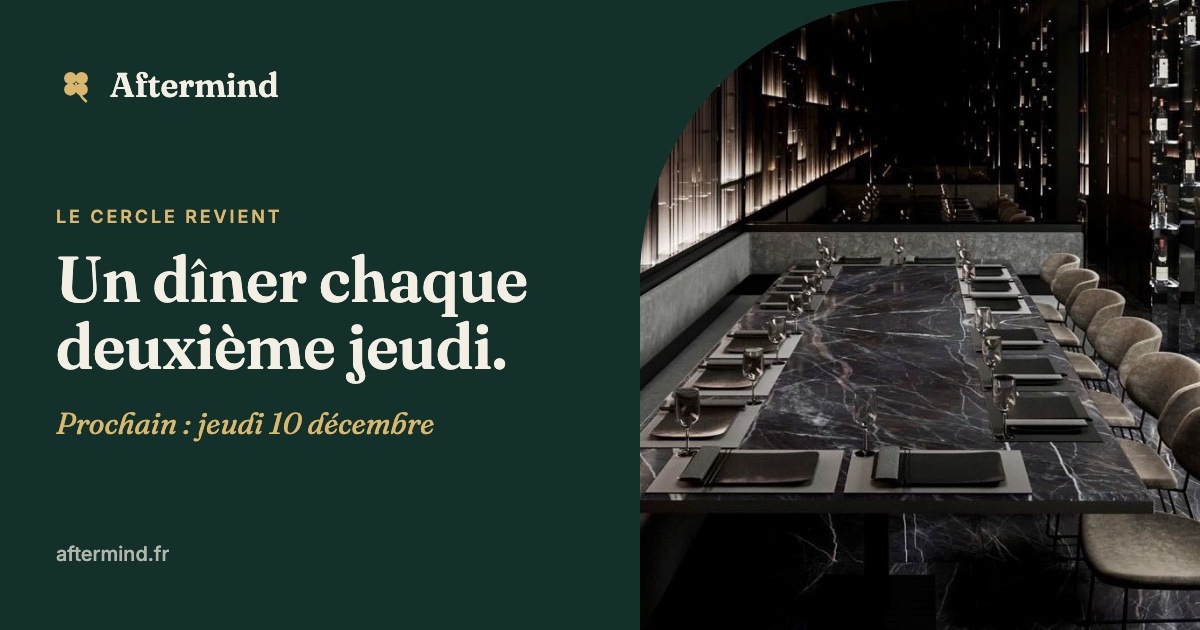
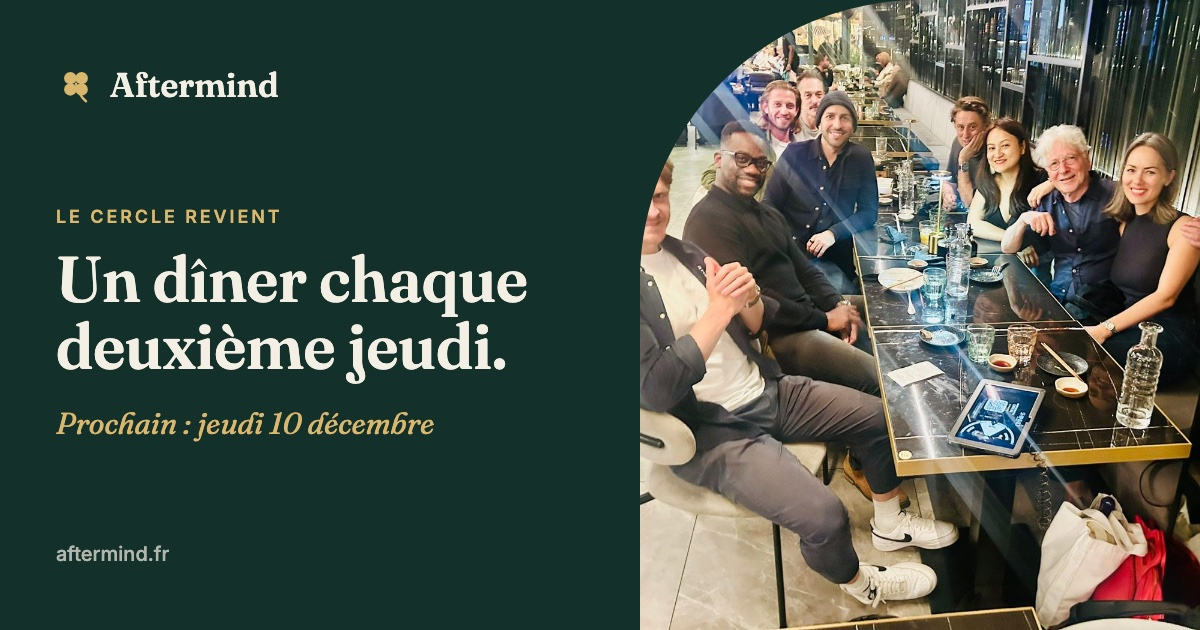
Version 3 : membres publics, citations nommées, 15 livres, photo de groupe en ouverture

diff --git a/index.html b/index.html
@@ -56,8 +56,8 @@
           </a>
         </div>
         <figure class="hero-photo reveal">
-          <img src="img/table-shinko.jpg" alt="Une longue table dressée dans un restaurant aux lumières tamisées" width="1280" height="720">
-          <figcaption>La table est mise.</figcaption>
+          <img src="img/soirees/tablee-septembre-2025.jpg" alt="Une grande tablée de membres de l'Aftermind, septembre 2025" width="1400" height="1050">
+          <figcaption>Un jeudi soir, septembre 2025.</figcaption>
         </figure>
       </div>
     </section>
@@ -126,14 +126,14 @@
         <p class="kicker reveal">Les soirées</p>
         <h2 class="reveal">Ce que ça donne, un jeudi soir.</h2>
         <div class="gallery">
-          <figure class="g-wide reveal" data-prive><img src="img/prive/tablee-septembre-2025.jpg" alt="Une grande tablée de membres, septembre 2025" loading="lazy"></figure>
+          <figure class="g-wide reveal"><img src="img/soirees/apero-septembre-2026.jpg" alt="Un apéro entre membres, septembre 2026" loading="lazy"></figure>
           <figure class="g-tall reveal"><img src="img/assiettes.jpg" alt="Des assiettes et des verres sur une table sombre" loading="lazy"></figure>
-          <figure class="reveal" data-prive><img src="img/prive/soiree-septembre-2025.jpg" alt="Des membres réunis autour d'une table, septembre 2025" loading="lazy"></figure>
-          <figure class="reveal" data-prive><img src="img/prive/diner-octobre-2025.jpg" alt="Un dîner du cercle, octobre 2025" loading="lazy"></figure>
+          <figure class="reveal"><img src="img/soirees/soiree-septembre-2025.jpg" alt="Des membres réunis autour d'une table, septembre 2025" loading="lazy"></figure>
+          <figure class="reveal"><img src="img/soirees/diner-octobre-2025.jpg" alt="Un dîner du cercle, octobre 2025" loading="lazy"></figure>
           <figure class="g-tall reveal"><img src="img/salle-cafe.jpg" alt="Une salle de café parisien aux moulures dorées" loading="lazy"></figure>
-          <figure class="reveal" data-prive><img src="img/prive/premiere-soiree-juin-2025.jpg" alt="La première soirée du cercle, juin 2025" loading="lazy"></figure>
-          <figure class="g-wide reveal" data-prive><img src="img/prive/terrasse-septembre-2026.jpg" alt="Des membres en terrasse, septembre 2026" loading="lazy"></figure>
-          <figure class="reveal"><img src="img/salle-shinko.jpg" alt="Une salle de restaurant aux tables noires" loading="lazy"></figure>
+          <figure class="reveal"><img src="img/soirees/premiere-soiree-juin-2025.jpg" alt="La première soirée du cercle, juin 2025" loading="lazy"></figure>
+          <figure class="g-wide reveal"><img src="img/soirees/terrasse-septembre-2026.jpg" alt="Des membres en terrasse, septembre 2026" loading="lazy"></figure>
+          <figure class="g-tall reveal"><img src="img/soirees/diner-juillet-2025.jpg" alt="Le premier dîner, juillet 2025" loading="lazy"></figure>
         </div>
       </div>
     </section>
@@ -200,13 +200,13 @@ Délai : …</pre>
       <div class="wrap">
         <p class="kicker reveal">Dans le groupe, le lendemain</p>
         <div class="quotes">
-          <blockquote class="q-big reveal"><p>« De l'authentique, du brut, du bon. On a ri, on a parlé vrai. »</p><cite>Après la première soirée, juin 2025</cite></blockquote>
-          <blockquote class="reveal"><p>« Il y a de la magie à se retrouver. On s'apprend. »</p><cite>Octobre 2025</cite></blockquote>
-          <blockquote class="reveal"><p>« Une belle dream team de singularité pétillante. »</p><cite>Juin 2025</cite></blockquote>
-          <blockquote class="reveal"><p>« Le pouvoir des pairs qui grandissent ensemble. »</p><cite>Octobre 2025</cite></blockquote>
-          <blockquote class="reveal"><p>« De bonnes vibes, du bon jus de crâne. What else ? »</p><cite>Septembre 2025</cite></blockquote>
-          <blockquote class="reveal"><p>« Une soirée, c'est trop court ! »</p><cite>Octobre 2025</cite></blockquote>
-          <blockquote class="reveal"><p>« Entremetteur de styles. »</p><cite>À propos de l'hôte, décembre 2025</cite></blockquote>
+          <blockquote class="q-big reveal"><p>« De l'authentique, du brut, du bon. On a ri, on a parlé vrai. »</p><footer><span class="q-av"><img src="img/membres/rosalie-bun-ung.jpg" alt="" loading="lazy"></span><span><strong>Rosalie Bun-Ung</strong><cite>Coach business et mindset · après la première soirée, juin 2025</cite></span></footer></blockquote>
+          <blockquote class="reveal"><p>« Il y a de la magie à se retrouver. On s'apprend. »</p><footer><span class="q-av"><img src="img/membres/jean-sommer.jpg" alt="" loading="lazy"></span><span><strong>Jean Sommer</strong><cite>Coach vocal, auteur · octobre 2025</cite></span></footer></blockquote>
+          <blockquote class="reveal"><p>« Une belle dream team de singularité pétillante. »</p><footer><span class="q-av"><img src="img/membres/cyril-bechacq.jpg" alt="" loading="lazy"></span><span><strong>Cyril Béchacq</strong><cite>Thérapeute manuel · juin 2025</cite></span></footer></blockquote>
+          <blockquote class="reveal"><p>« Génial de se retrouver dans un contexte qui incarne si bien le pouvoir des pairs qui grandissent ensemble. »</p><footer><span class="q-av"><img src="img/membres/diane-lenne.jpg" alt="" loading="lazy"></span><span><strong>Diane Lenne</strong><cite>CEO de We Are Peers · octobre 2025</cite></span></footer></blockquote>
+          <blockquote class="reveal"><p>« De bonnes vibes, du bon jus de crâne. What else ? »</p><footer><span class="q-av"><img src="img/membres/gwladys-ramette.jpg" alt="" loading="lazy"></span><span><strong>Gwladys Ramette</strong><cite>Coach carrière · septembre 2025</cite></span></footer></blockquote>
+          <blockquote class="reveal"><p>« Ravi à l'idée de revoir des têtes connues et d'en découvrir de nouvelles. »</p><footer><span class="q-av"><span>AB</span></span><span><strong>Alain Bosetti</strong><cite>Président d'En Personne · décembre 2025</cite></span></footer></blockquote>
+          <blockquote class="reveal"><p>« Une belle première soirée. Bravo pour l'initiative. »</p><footer><span class="q-av"><span>RG</span></span><span><strong>Rodolphe Gagetta</strong><cite>Directeur de production · juin 2025</cite></span></footer></blockquote>
         </div>
       </div>
     </section>
@@ -216,7 +216,7 @@ Délai : …</pre>
       <div class="wrap">
         <p class="kicker reveal">Les membres</p>
         <h2 class="reveal">Une quarantaine de parcours qui ne se ressemblent pas.</h2>
-        <p class="muted reveal measure">Des fondateurs, des auteurs, des coachs, des artistes. Ce qui les réunit : l'envie de construire, et de ne pas le faire seul.</p>
+        <p class="muted reveal measure">Des fondateurs, des auteurs, des coachs, des artistes. Ce qui les réunit : l'envie de construire, et de ne pas le faire seul. Clique sur une fiche pour retrouver chacun sur LinkedIn.</p>
 
         <ul class="mosaic reveal" aria-label="Quelques métiers du cercle">
           <li>Illusionniste</li><li>Business angel</li><li>Éditrice</li><li>Thérapeute de couple</li>
@@ -255,21 +255,67 @@ Délai : …</pre>
       <div class="wrap">
         <p class="kicker reveal">La bibliothèque</p>
         <h2 class="reveal">Les livres du cercle.</h2>
-        <p class="muted reveal measure">Plusieurs membres ont écrit. On commence par deux livres qui parlent de ce qu'on fait ici : apprendre des autres, et tisser son réseau.</p>
+        <p class="muted reveal measure">Quinze livres écrits ou portés par des membres. D'autres sont en route : Léa, Corinne et Gwladys écrivent le leur.</p>
         <div class="books">
           <article class="book reveal">
-            <img src="img/livre-apprendre-les-uns-des-autres.jpg" alt="Couverture du livre Apprendre les uns des autres" loading="lazy">
-            <div>
-              <h3>Apprendre les uns des autres</h3>
-              <p class="muted">Diane Lenne, Eyrolles. Partager ses connaissances entre pairs et faire grandir le collectif.</p>
-            </div>
+            <img src="https://servimg.eyrolles.com/static/media/0094/9782416020094_internet_h1400.jpg" alt="Couverture de Apprendre les uns des autres" referrerpolicy="no-referrer" onerror="this.replaceWith(Object.assign(document.createElement('span'),{className:'book-cover',textContent:this.dataset.t}))" data-t="Apprendre les uns des autres">
+            <div><h3>Apprendre les uns des autres</h3><p class="book-author">Diane Lenne</p><p class="muted">Faire du savoir de chacun une force collective.</p><p class="book-ed">Eyrolles, 2025</p></div>
           </article>
           <article class="book reveal">
-            <div class="book-cover" aria-hidden="true"><span>Réseau</span></div>
-            <div>
-              <h3><span class="todo">[Titre à confirmer]</span></h3>
-              <p class="muted">Alain Bosetti. L'art de construire et d'entretenir son réseau.</p>
-            </div>
+            <img src="https://www.dunod.com/sites/default/files/styles/moyen_desktop/public/thumbnails/image/9782100887811-001-X.jpeg" alt="Couverture de Je réussis grâce à mon réseau" referrerpolicy="no-referrer" onerror="this.replaceWith(Object.assign(document.createElement('span'),{className:'book-cover',textContent:this.dataset.t}))" data-t="Je réussis grâce à mon réseau">
+            <div><h3>Je réussis grâce à mon réseau</h3><p class="book-author">Alain Bosetti, avec Mark Lahore</p><p class="muted">Une seule rencontre peut changer une vie d'entrepreneur.</p><p class="book-ed">Dunod, 2026</p></div>
+          </article>
+          <article class="book reveal">
+            <img src="https://servimg.eyrolles.com/static/media/2618/9782100882618_internet_h1400.jpg" alt="Couverture de La magie derrière l'expérience client" referrerpolicy="no-referrer" onerror="this.replaceWith(Object.assign(document.createElement('span'),{className:'book-cover',textContent:this.dataset.t}))" data-t="La magie derrière l'expérience client">
+            <div><h3>La magie derrière l'expérience client</h3><p class="book-author">Laurent Beretta</p><p class="muted">L'illusionnisme au service de l'effet waouh.</p><p class="book-ed">Dunod, 2026</p></div>
+          </article>
+          <article class="book reveal">
+            <img src="https://jean-sommer.fr/wp-content/uploads/2020/06/livre-voix-pouvoir.jpg" alt="Couverture de La voix, cet outil du pouvoir" referrerpolicy="no-referrer" onerror="this.replaceWith(Object.assign(document.createElement('span'),{className:'book-cover',textContent:this.dataset.t}))" data-t="La voix, cet outil du pouvoir">
+            <div><h3>La voix, cet outil du pouvoir</h3><p class="book-author">Jean Sommer</p><p class="muted">Trouver sa voix pour être entendu.</p><p class="book-ed">JC Lattès, 2020</p></div>
+          </article>
+          <article class="book reveal">
+            <img src="https://servimg.eyrolles.com/static/media/2018/9782212572018_internet_h1400.jpg" alt="Couverture de Petites habitudes, grandes réussites" referrerpolicy="no-referrer" onerror="this.replaceWith(Object.assign(document.createElement('span'),{className:'book-cover',textContent:this.dataset.t}))" data-t="Petites habitudes, grandes réussites">
+            <div><h3>Petites habitudes, grandes réussites</h3><p class="book-author">Onur Karapinar</p><p class="muted">51 pratiques pour devenir la meilleure version de soi.</p><p class="book-ed">Eyrolles, 2019</p></div>
+          </article>
+          <article class="book reveal">
+            <img src="https://static.fnac-static.com/multimedia/PE/Images/FR/NR/cc/ab/1b/18590668/1545-1/tsp20261111074515/Construis-ta-liberte-financiere.jpg" alt="Couverture de Construis ta liberté financière" referrerpolicy="no-referrer" onerror="this.replaceWith(Object.assign(document.createElement('span'),{className:'book-cover',textContent:this.dataset.t}))" data-t="Construis ta liberté financière">
+            <div><h3>Construis ta liberté financière</h3><p class="book-author">Alexandre Lacharme</p><p class="muted">Sept étapes vers une vie sereine et choisie.</p><p class="book-ed">Eyrolles, 2025</p></div>
+          </article>
+          <article class="book reveal">
+            <img src="https://static.fnac-static.com/multimedia/PE/Images/FR/NR/df/ff/d8/14221279/1545-1/tsp20261107073357/Investir-dans-les-parkings-pour-creer-sa-liberte-financiere.jpg" alt="Couverture de Investir dans les parkings pour créer sa liberté financière" referrerpolicy="no-referrer" onerror="this.replaceWith(Object.assign(document.createElement('span'),{className:'book-cover',textContent:this.dataset.t}))" data-t="Investir dans les parkings pour créer sa liberté financière">
+            <div><h3>Investir dans les parkings pour créer sa liberté financière</h3><p class="book-author">Alexandre Lacharme</p><p class="muted">Un investissement simple et accessible.</p><p class="book-ed">Eyrolles, 2022</p></div>
+          </article>
+          <article class="book reveal">
+            <img src="https://products-images.di-static.com/image/hachette-vivre-a-deux-c-est-simple-il-suffit-d-apprendre/9791020391261-200x303-1.webp" alt="Couverture de Vivre à deux c'est simple, il suffit d'apprendre" referrerpolicy="no-referrer" onerror="this.replaceWith(Object.assign(document.createElement('span'),{className:'book-cover',textContent:this.dataset.t}))" data-t="Vivre à deux c'est simple, il suffit d'apprendre">
+            <div><h3>Vivre à deux c'est simple, il suffit d'apprendre</h3><p class="book-author">Maïra Chatelain</p><p class="muted">Mieux vivre la relation de couple.</p><p class="book-ed">2026</p></div>
+          </article>
+          <article class="book reveal">
+            <img src="https://servimg.eyrolles.com/static/media/2319/9782374142319_internet_h1400.jpg" alt="Couverture de Insupportable winneuse" referrerpolicy="no-referrer" onerror="this.replaceWith(Object.assign(document.createElement('span'),{className:'book-cover',textContent:this.dataset.t}))" data-t="Insupportable winneuse">
+            <div><h3>Insupportable winneuse</h3><p class="book-author">Karin Warin</p><p class="muted">Le vide qui suit la réussite.</p><p class="book-ed">Bayard, 2025</p></div>
+          </article>
+          <article class="book reveal">
+            <img src="https://servimg.eyrolles.com/static/media/0693/9782362140693_internet_h1400.jpg" alt="Couverture de L'art de la guerre du rugby" referrerpolicy="no-referrer" onerror="this.replaceWith(Object.assign(document.createElement('span'),{className:'book-cover',textContent:this.dataset.t}))" data-t="L'art de la guerre du rugby">
+            <div><h3>L'art de la guerre du rugby</h3><p class="book-author">Xavier Brissard</p><p class="muted">Sun Tzu sur le terrain, à l'école et dans la vie.</p><p class="book-ed">Le Voyageur, 2026</p></div>
+          </article>
+          <article class="book reveal">
+            <img src="https://images.squarespace-cdn.com/content/v1/6a7c63d10a699d1cc6e7ca77/2058cd9a-3e75-4cae-8111-cb9543a8eb4e/978-2-488886-07-9+FRONT.jpg" alt="Couverture de Le Leadership Narratif" referrerpolicy="no-referrer" onerror="this.replaceWith(Object.assign(document.createElement('span'),{className:'book-cover',textContent:this.dataset.t}))" data-t="Le Leadership Narratif">
+            <div><h3>Le Leadership Narratif</h3><p class="book-author">Vincent Bosq-Bousquet</p><p class="muted">Fédérer ses équipes par le récit.</p><p class="book-ed">Prochain Chapitre, 2026</p></div>
+          </article>
+          <article class="book reveal">
+            <span class="book-cover">Les gens mentent</span>
+            <div><h3>Les gens mentent</h3><p class="book-author">Choura Sayed</p><p class="muted">Les techniques d'une ex-profileuse pour décoder n'importe qui.</p><p class="book-ed">Prochain Chapitre, 2026</p></div>
+          </article>
+          <article class="book reveal">
+            <span class="book-cover">Écrire un livre pour booster votre business</span>
+            <div><h3>Écrire un livre pour booster votre business</h3><p class="book-author">Isabelle Rochard</p><p class="muted">La ghostwriter des entrepreneurs livre sa méthode.</p><p class="book-ed">2024</p></div>
+          </article>
+          <article class="book reveal">
+            <span class="book-cover">Minikif</span>
+            <div><h3>Minikif</h3><p class="book-author">Martin Tissier</p><p class="muted">37 petits bonheurs pour réveiller sa joie.</p><p class="book-ed">BoD, 2025</p></div>
+          </article>
+          <article class="book reveal">
+            <img src="img/livres/uncommon-cannes-avatar.jpg" alt="Couverture de Uncommon Cannes" referrerpolicy="no-referrer" onerror="this.replaceWith(Object.assign(document.createElement('span'),{className:'book-cover',textContent:this.dataset.t}))" data-t="Uncommon Cannes">
+            <div><h3>Uncommon Cannes</h3><p class="book-author">Thomas de Pariente, édité par Rodolphe Gagetta</p><p class="muted">Un Cannes intime et méconnu, en images.</p><p class="book-ed">A Day A Dream, 2025</p></div>
           </article>
         </div>
       </div>

diff --git a/membres.js b/membres.js
@@ -1,0 +1,44 @@
+// Fiches des membres. Source : base Notion « Membres Aftermind », 17/11/2026.
+// Publication validée par Onur le 17/11/2026 (accord: true pour tous).
+// Pour retirer quelqu'un du site : passer son accord à false.
+window.MEMBRES = [
+  { nom: "Alain Bosetti", activite: "Président du groupe En Personne et du Salon SME", linkedin: "https://www.linkedin.com/in/alain-bosetti-1360032/", accord: true },
+  { nom: "Alexandre Huang", activite: "Fondateur du Studio Interview Conseil, storytelling et branding", linkedin: "https://www.linkedin.com/in/huangalexandre", accord: true, photo: "img/membres/alexandre-huang.jpg" },
+  { nom: "Alexandre Lacharme", activite: "Auteur, business angel, chroniqueur Sud Radio", linkedin: "https://www.linkedin.com/in/alexlacharme/", accord: true },
+  { nom: "Aurore Kassambara", activite: "Product builder no-code et IA pour le sport", linkedin: "https://www.linkedin.com/in/aurore-kassambara-1a47451a1/", accord: true, photo: "img/membres/aurore-kassambara.jpg" },
+  { nom: "Barthélémy Fendt", activite: "Entrepreneur, podcasteur sportif", linkedin: "https://www.linkedin.com/in/barthelemy-fendt/", accord: true, photo: "img/membres/barthelemy-fendt.jpg" },
+  { nom: "Bülent Turan", activite: "Conférencier, coach, ex-athlète d'arts martiaux", linkedin: "https://www.linkedin.com/in/bulentturancoach", accord: true, photo: "img/membres/bulent-turan.jpg" },
+  { nom: "Choura Sayed", activite: "Auteure, conférencière, profiler comportementale", linkedin: "https://www.linkedin.com/in/dre-choura-sayed-885637129/", accord: true },
+  { nom: "Corinne Huynh", activite: "Stratège de l'identité professionnelle", linkedin: "https://www.linkedin.com/in/corinnehuynh/", accord: true, photo: "img/membres/corinne-huynh.jpg" },
+  { nom: "Cyril Béchacq", activite: "Formateur en thérapie manuelle", linkedin: "https://www.linkedin.com/in/cyril-bechacq/", accord: true, photo: "img/membres/cyril-bechacq.jpg" },
+  { nom: "Diane Lenne", activite: "CEO de We Are Peers, auteure", linkedin: "https://www.linkedin.com/in/dianelenne/", accord: true, photo: "img/membres/diane-lenne.jpg" },
+  { nom: "Gwladys Ramette", activite: "Coach carrière, recruteuse", linkedin: "https://www.linkedin.com/in/gwladysramette-coach-carri%C3%A8re/", accord: true, photo: "img/membres/gwladys-ramette.jpg" },
+  { nom: "Isabelle Faure", activite: "Anti-coach nutrition des entrepreneurs", linkedin: "https://www.linkedin.com/in/isabelle-faure/", accord: true, photo: "img/membres/isabelle-faure.jpg" },
+  { nom: "Isabelle Rochard", activite: "Directrice des Éditions Prochain Chapitre", linkedin: "https://www.linkedin.com/in/isabelle-rochard/", accord: true, photo: "img/membres/isabelle-rochard.jpg" },
+  { nom: "Jean Sommer", activite: "Coach vocal pour leaders, artiste, auteur", linkedin: "https://www.linkedin.com/in/jean-sommer/", accord: true, photo: "img/membres/jean-sommer.jpg" },
+  { nom: "Jérémy Cap", activite: "Expert en efficience, conférencier TEDx", linkedin: "https://www.linkedin.com/in/j%C3%A9r%C3%A9my-cap-10a4096a", accord: true, photo: "img/membres/jeremy-cap.jpg" },
+  { nom: "Jérôme Meyniel", activite: "Conférencier, enseignant, fondateur de L'œil de Socrate", linkedin: "https://www.linkedin.com/in/j%C3%A9r%C3%B4me-meyniel-conferencier/", accord: true },
+  { nom: "Karin Warin", activite: "Présidente de Magna-Up, autrice, investisseuse", linkedin: "https://www.linkedin.com/in/karin-warin/", accord: true, photo: "img/membres/karin-warin.jpg" },
+  { nom: "Kévin Ouinsou", activite: "Expert en prospection B2B", linkedin: "https://www.linkedin.com/in/kevin-ouinsou/", accord: true, photo: "img/membres/kevin-ouinsou.jpg" },
+  { nom: "Laurent Beretta", activite: "Illusionniste, conférencier, expert de l'expérience client", linkedin: "https://www.linkedin.com/in/laurentberetta", accord: true, photo: "img/membres/laurent-beretta.jpg" },
+  { nom: "Léa Ben Zimra", activite: "Fondatrice de Populence Academy, le repas d'affaires", linkedin: "https://www.linkedin.com/in/l%C3%A9a-ben-zimra/", accord: true, photo: "img/membres/lea-ben-zimra.jpg" },
+  { nom: "Lydia Martraire", activite: "Fondatrice de Kaperli, pédagogie active", linkedin: "https://www.linkedin.com/in/lydia-martraire-a869851/", accord: true, photo: "img/membres/lydia-martraire.jpg" },
+  { nom: "Maïra Chatelain", activite: "Thérapeute de couple, auteure, conférencière", linkedin: "https://www.linkedin.com/in/ma%C3%AFra-chatelain-243605a1/", accord: true, photo: "img/membres/maira-chatelain.jpg" },
+  { nom: "Manon Merloz", activite: "Consultante branding, fondatrice d'Is Typing", linkedin: "https://www.linkedin.com/in/manon-merloz", accord: true, photo: "img/membres/manon-merloz.jpg" },
+  { nom: "Marie Leresteux", activite: "Coach de conférenciers, agence de speakers", linkedin: "https://www.linkedin.com/in/marie-leresteux", accord: true, photo: "img/membres/marie-leresteux.jpg" },
+  { nom: "Martin Tissier", activite: "CEO d'Urban Gaming, chasseur de kif", linkedin: "https://www.linkedin.com/in/martintissier/", accord: true },
+  { nom: "Melinda Limoges", activite: "Coach en neurosciences, LinkedIn et vente", linkedin: "https://www.linkedin.com/in/mlimoges", accord: true, photo: "img/membres/melinda-limoges.jpg" },
+  { nom: "Ouari Dakhli", activite: "Fondateur d'Agile Retraite Conseils, business angel", linkedin: "https://www.linkedin.com/in/ouari-dakhli/", accord: true },
+  { nom: "Paul Barret", activite: "Cofondateur d'Opluo Brand, vidéo signature", linkedin: "https://www.linkedin.com/in/paul-barret/", accord: true, photo: "img/membres/paul-barret.jpg" },
+  { nom: "Rodolphe Gagetta", activite: "Directeur de production, artiste", linkedin: "https://www.linkedin.com/in/rodolphe-gagetta/", accord: true },
+  { nom: "Rosalie Bun-Ung", activite: "Coach business et mindset", linkedin: "https://www.linkedin.com/in/rosalie-bun", accord: true, photo: "img/membres/rosalie-bun-ung.jpg" },
+  { nom: "Sacha Honigbaum", activite: "Prof de yoga et de breathwork, networking B2B", linkedin: "https://www.linkedin.com/in/sachahonigbaum", accord: true, photo: "img/membres/sacha-honigbaum.jpg" },
+  { nom: "Sébastien Burger", activite: "CTO indépendant, automatisation et IA", linkedin: "https://www.linkedin.com/in/sebastien-burger/", accord: true, photo: "img/membres/sebastien-burger.jpg" },
+  { nom: "Tanguy Genet", activite: "Cofondateur d'Opluo Family, communautés d'entrepreneurs", linkedin: "https://www.linkedin.com/in/tanguy-genet/", accord: true, photo: "img/membres/tanguy-genet.jpg" },
+  { nom: "Thomas Argheria", activite: "Coach performance, podcast Le feu aux tripes", linkedin: "https://www.linkedin.com/in/thomas-argheria", accord: true, photo: "img/membres/thomas-argheria.jpg" },
+  { nom: "Veronika Zizka", activite: "Fondatrice de l'Agence VZ, photo et scan 3D", linkedin: "https://www.linkedin.com/in/veronika-madamemesure/", accord: true },
+  { nom: "Vincent Bosq-Bousquet", activite: "Conférencier, sparring partner en communication", linkedin: "https://www.linkedin.com/in/vincentbosqbousquet", accord: true, photo: "img/membres/vincent-bosq-bousquet.jpg" },
+  { nom: "Virginie Audrain", activite: "Cofondatrice de Finavia, finance des dirigeants", linkedin: "https://www.linkedin.com/in/virginie-audrain/", accord: true, photo: "img/membres/virginie-audrain.jpg" },
+  { nom: "Vitty Feng-Tirlot", activite: "Coach en leadership interculturel", linkedin: "https://www.linkedin.com/in/vitty-feng-tirlot/", accord: true, photo: "img/membres/vitty-feng-tirlot.jpg" },
+  { nom: "Xavier Brissard", activite: "Directeur de création, auteur, ancien rugbyman", linkedin: "https://www.linkedin.com/in/xavier-brissard/", accord: true }
+];

diff --git a/style.css b/style.css
@@ -282,3 +282,30 @@ nav a:hover::after { right: 0; }
   html { scroll-behavior: auto; }
   * { transition: none !important; }
 }
+
+/* Version 3 : citations nommées, fiches avec photo, bibliothèque */
+.quotes blockquote { display: flex; flex-direction: column; }
+.quotes blockquote p { flex: 1; }
+.quotes footer { display: flex; align-items: center; gap: 12px; }
+.quotes footer strong { display: block; font-size: 0.95rem; color: var(--bg); }
+.quotes footer cite { display: block; }
+.q-av { width: 44px; height: 44px; border-radius: 50%; overflow: hidden; flex: none; display: grid; place-items: center; background: rgba(217, 183, 110, .2); color: var(--gold-light); font: 600 0.9rem "Fraunces", serif; border: 2px solid rgba(217, 183, 110, .5); }
+.q-av img { width: 100%; height: 100%; object-fit: cover; }
+.quotes .q-big .q-av { width: 56px; height: 56px; }
+img.avatar { object-fit: cover; padding: 0; }
+.books { grid-template-columns: repeat(3, 1fr); }
+.book { grid-template-columns: 96px 1fr; align-items: start; }
+.book img, .book-cover { width: 96px; }
+.book-cover { padding: 10px; text-align: center; font-size: 0.85rem; line-height: 1.25; }
+.book h3 { font-size: 1.05rem; margin-bottom: 4px; }
+.book-author { font-weight: 600; font-size: 0.9rem; margin: 0 0 6px; color: var(--accent); }
+.book .muted { font-size: 0.9rem; }
+.book-ed { font-size: 0.78rem; color: var(--ink-soft); opacity: .8; margin: 6px 0 0; }
+@media (max-width: 900px) { .books { grid-template-columns: 1fr 1fr; } }
+@media (max-width: 640px) { .books { grid-template-columns: 1fr; } .book { grid-template-columns: 84px 1fr; } .book img, .book-cover { width: 84px; } }
+@media (max-width: 640px) {
+  .fiches-grid { grid-template-columns: 1fr 1fr; gap: 10px; }
+  .fiche { grid-template-columns: 1fr; justify-items: center; text-align: center; padding: 14px 10px; }
+  .avatar { grid-row: auto; width: 56px; height: 56px; }
+  .fiche-link { grid-column: auto; }
+}

diff --git a/site.js b/site.js
@@ -20,9 +20,9 @@
       var li = document.createElement("li");
       li.className = "fiche" + (m.accord ? "" : " sans-accord");
       li.innerHTML =
-        '<span class="avatar" aria-hidden="true"></span>' +
+        (m.photo ? '<img class="avatar" alt="" loading="lazy">' : '<span class="avatar" aria-hidden="true"></span>') +
         '<span class="fiche-txt"><strong></strong><span></span></span>';
-      li.querySelector(".avatar").textContent = initiales;
+      if (m.photo) { li.querySelector(".avatar").src = m.photo; } else { li.querySelector(".avatar").textContent = initiales; }
       li.querySelector("strong").textContent = m.nom;
       li.querySelector(".fiche-txt span").textContent = m.activite;
       if (m.linkedin) {

diff --git a/README.md b/README.md
@@ -14,10 +14,9 @@ Puis ouvre http://localhost:4321.
 
 ## Règles du contenu
 
-- Aucun nom ni aucune photo de membre en ligne sans son accord écrit.
-- `membres.js` (fiches) et `img/prive/` (photos avec visages) ne sont pas versionnés. En local, tout s'affiche. En ligne, `site.js` ne montre que les fiches avec `accord: true`, et une photo privée absente disparaît toute seule.
-- Avant publication : copier dans le dépôt une version de `membres.js` qui ne garde que les membres d'accord, et seulement leurs photos.
-- `img/table-shinko.jpg` et `img/salle-shinko.jpg` viennent sans doute du site du restaurant : à remplacer par une photo d'un membre avant la mise en ligne.
+- Publication des noms, photos et citations des membres validée par Onur le 17/11/2026. Pour retirer quelqu'un : `accord: false` dans `membres.js`, et retirer sa photo de `img/membres/`.
+- Photos de profil : avatars WhatsApp du groupe (cache Beeper). Photos des soirées : groupe WhatsApp.
+- Couvertures de livres : chargées depuis les sites des éditeurs et libraires (pas de copie locale).
 - Pas de pitch, pas de formulaire : l'entrée se fait sur invitation.
 - La balise `noindex` reste tant que le site n'est pas validé.
 
